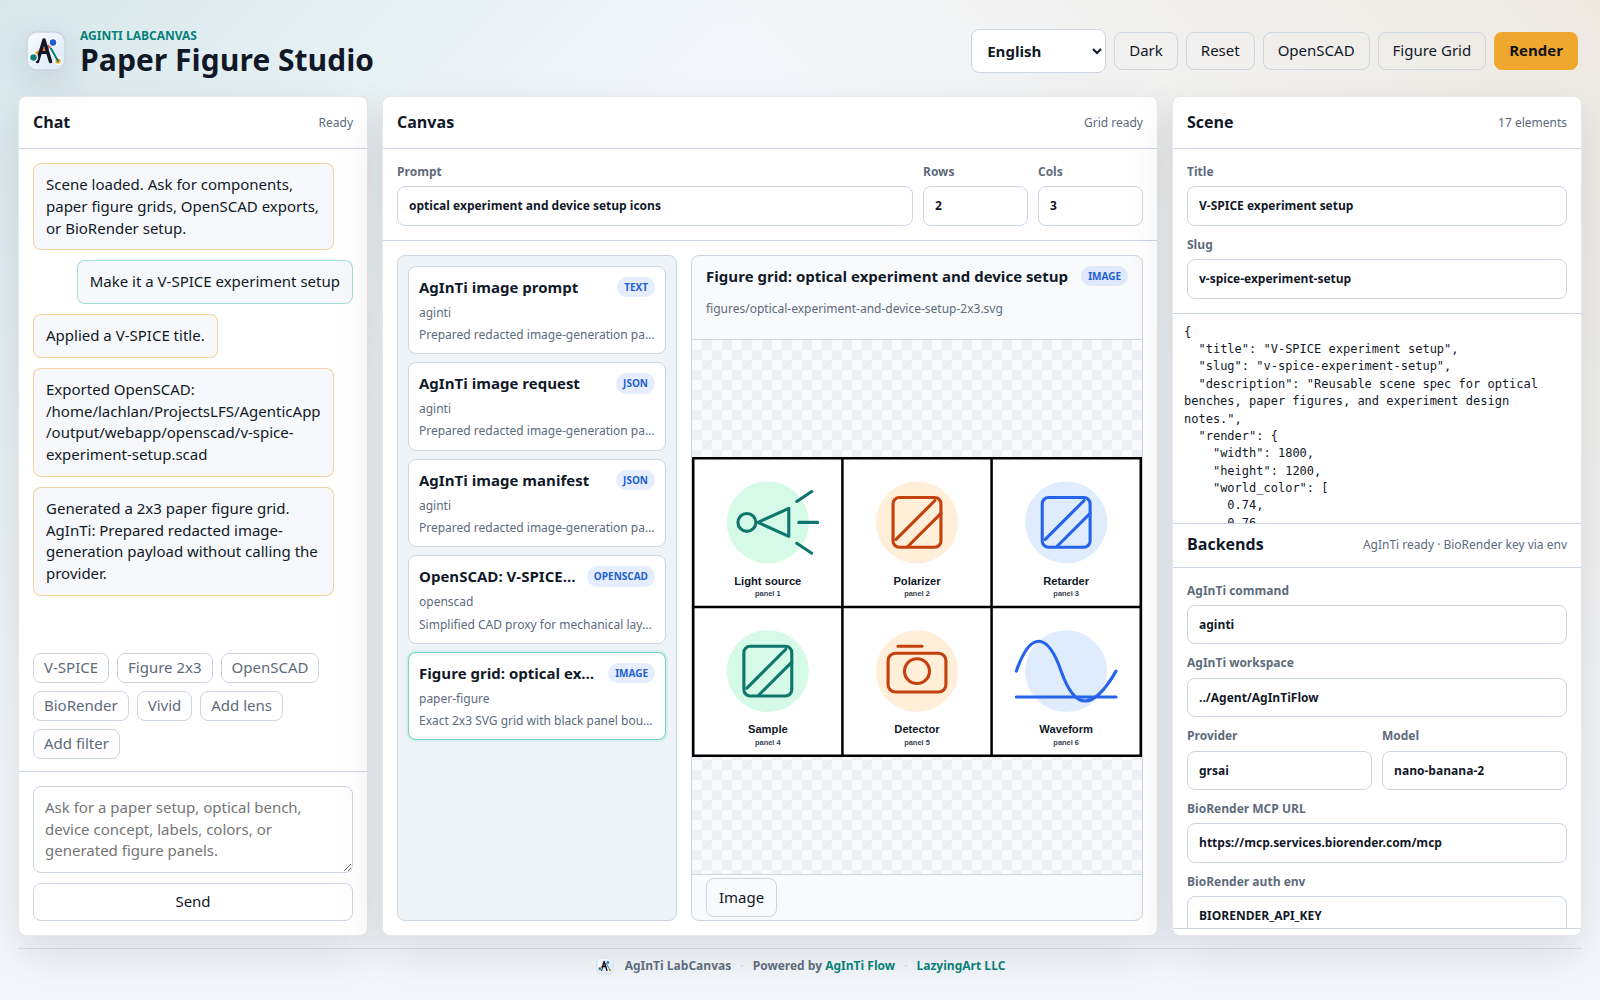
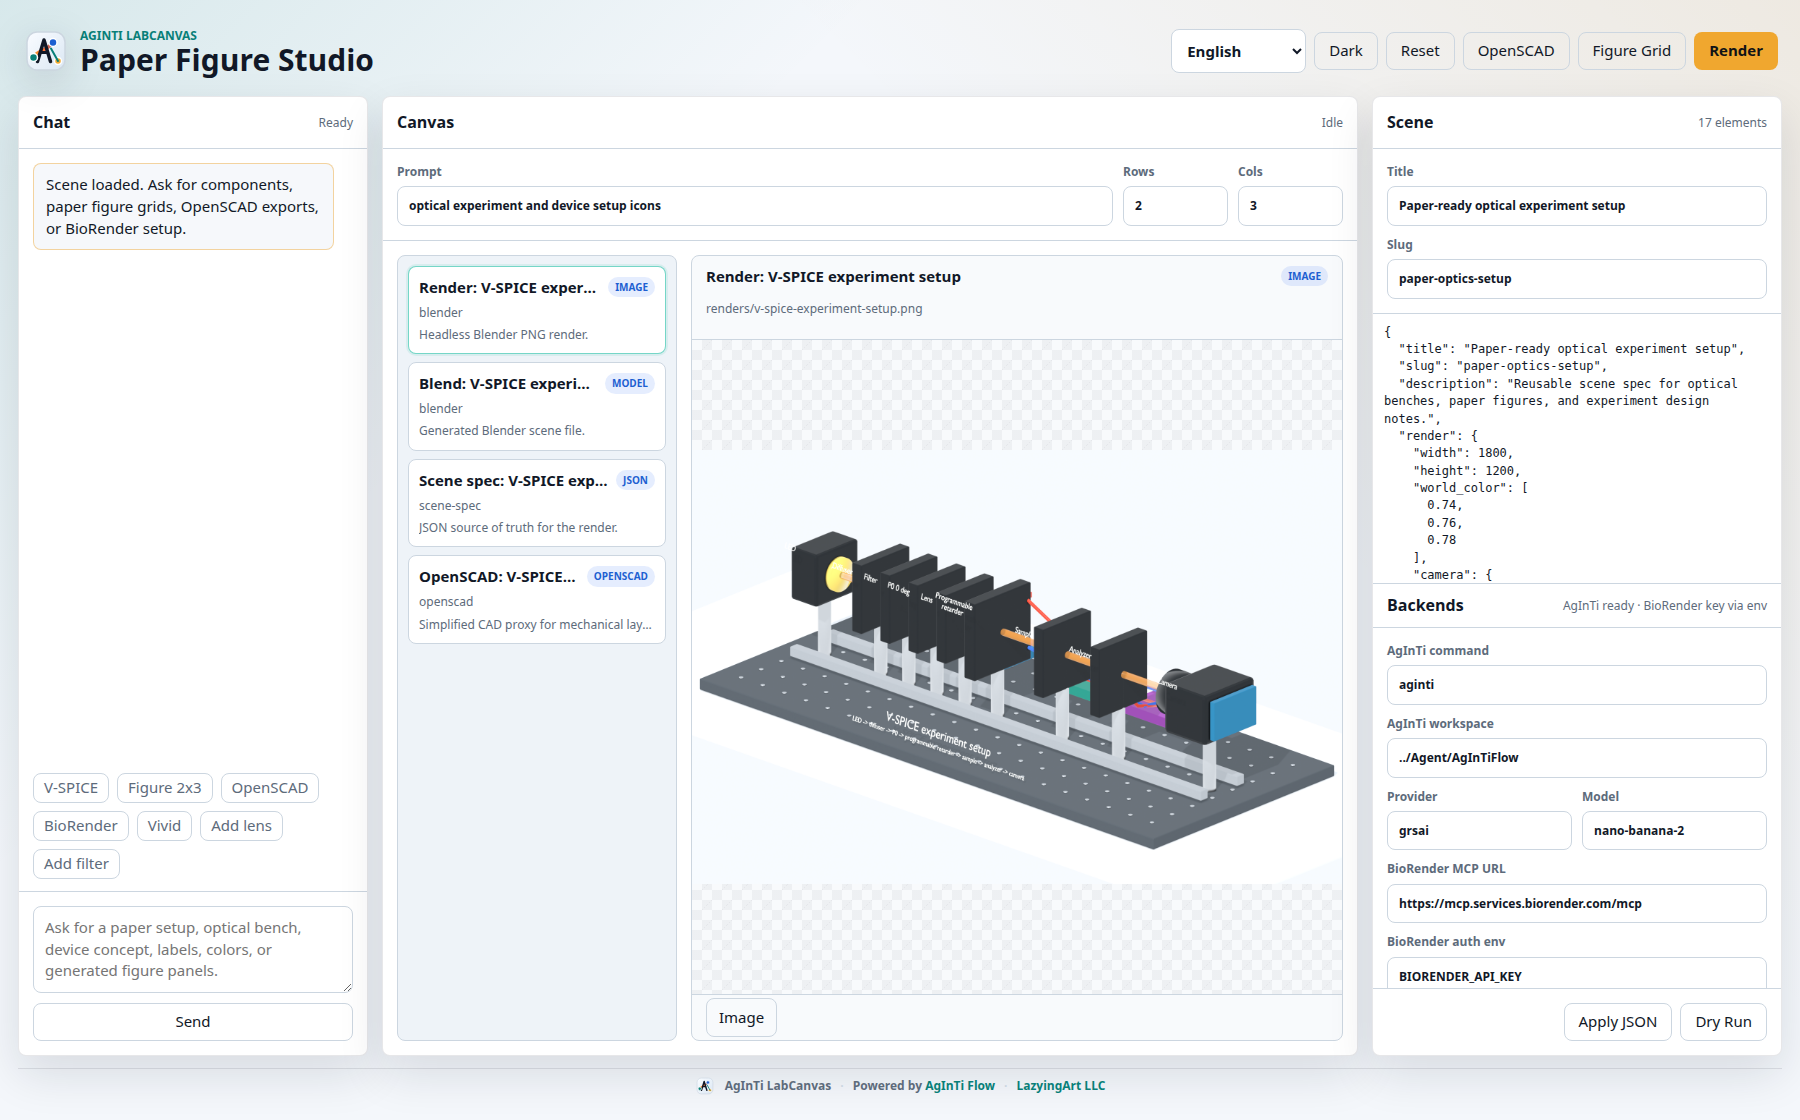
Polish README and support panel

diff --git a/README.md b/README.md
@@ -1,9 +1,11 @@
 [English](README.md) · [العربية](i18n/README.ar.md) · [Español](i18n/README.es.md) · [Français](i18n/README.fr.md) · [日本語](i18n/README.ja.md) · [한국어](i18n/README.ko.md) · [Tiếng Việt](i18n/README.vi.md) · [中文 (简体)](i18n/README.zh-Hans.md) · [中文（繁體）](i18n/README.zh-Hant.md) · [Deutsch](i18n/README.de.md) · [Русский](i18n/README.ru.md)
 
+[![LazyingArt banner](https://github.com/lachlanchen/lachlanchen/raw/main/figs/banner.png)](https://lazying.art)
+
 <p align="center">
   <a href="https://lazying.art"><img alt="Homepage" src="https://img.shields.io/badge/home-lazying.art-111827?style=for-the-badge"></a>
-  <a href="https://www.npmjs.com/package/@lazyingart/labcanvas"><img alt="npm" src="https://img.shields.io/npm/v/@lazyingart/labcanvas?style=for-the-badge&label=npm"></a>
   <a href="https://github.com/lachlanchen/AgInTi-LabCanvas/actions"><img alt="Tests" src="https://img.shields.io/github/actions/workflow/status/lachlanchen/AgInTi-LabCanvas/test.yml?branch=master&style=for-the-badge&label=tests"></a>
+  <img alt="npm package target" src="https://img.shields.io/badge/npm-%40lazyingart%2Flabcanvas-0F766E?style=for-the-badge">
   <img alt="Python" src="https://img.shields.io/badge/python-3.10%2B-3776AB?style=for-the-badge">
   <img alt="MCP" src="https://img.shields.io/badge/MCP-ready-0F766E?style=for-the-badge">
 </p>
@@ -11,105 +13,73 @@
 <h1 align="center">AgInTi LabCanvas</h1>
 
 <p align="center">
-  Agent routing for Blender, BioRender, Unity, Unreal, and future creative tools.
-  AgInTi LabCanvas gives Codex, AgInTiFlow, Claude, local LLMs, and other MCP-aware agents one practical control plane for app automation.
+  <strong>Editable scientific figure and experiment-design studio for agent workflows.</strong><br>
+  Chat, preview, decompose, route, and rebuild paper figures through Blender, OpenSCAD, BioRender, AgInTi, KiCad, Unity, Unreal, and MCP-style tool bridges.
 </p>
+
+| Donate | PayPal | Stripe |
+| --- | --- | --- |
+| [![Donate](https://img.shields.io/badge/Donate-LazyingArt-0EA5E9?style=for-the-badge&logo=kofi&logoColor=white)](https://chat.lazying.art/donate) | [![PayPal](https://img.shields.io/badge/PayPal-RongzhouChen-00457C?style=for-the-badge&logo=paypal&logoColor=white)](https://paypal.me/RongzhouChen) | [![Stripe](https://img.shields.io/badge/Stripe-Donate-635BFF?style=for-the-badge&logo=stripe&logoColor=white)](https://buy.stripe.com/aFadR8gIaflgfQV6T4fw400) |
 
 <p align="center">
-  <a href="#quick-start">Quick Start</a> ·
-  <a href="#paper-figure-studio">Paper Figures</a> ·
-  <a href="#3d-experiment-design">3D Design</a> ·
-  <a href="#targets">Targets</a> ·
-  <a href="#research-backed-design">Research</a> ·
-  <a href="#languages">Languages</a>
+  <img src="docs/assets/aginti-labcanvas-vspice-studio.png" alt="AgInTi LabCanvas showing a V-SPICE chat task with a Blender-rendered experiment setup in the canvas" width="1100">
 </p>
 
-<p align="center">
-  <img src="docs/assets/aginti-labcanvas-vspice-studio.png" alt="AgInTi LabCanvas Paper Figure Studio showing a V-SPICE chat task with OpenSCAD, Blender, and rendered canvas artifacts" width="1100">
-</p>
+## What It Does
 
-<p align="center">
-  Live studio demo: chat asks for a V-SPICE experiment setup, OpenSCAD exports the CAD proxy, and Blender renders the selected right-side canvas artifact.
-</p>
+AgInTi LabCanvas is a small local control plane for agent-assisted scientific visuals and app automation. It keeps generated figures editable: an overview image can start an idea, but final outputs are rebuilt from atomic parts, scene specs, CAD files, manifests, and tool-specific artifacts.
 
-## Why This Exists
+## Current Highlights
 
-Creative tools are gaining agent bridges, but each bridge has a different install path, port, protocol, and safety model. AgInTi LabCanvas keeps those targets in one registry, validates them, emits MCP client config, and dispatches dry-run or live JSON envelopes to the right adapter.
-
-It is intentionally small: Python standard library, explicit config, no hidden editor automation.
+| Area | What is ready | Entry point |
+| --- | --- | --- |
+| Web studio | Chat, bright UI, artifact canvas, backend settings, multilingual UI | `labcanvas web --port 8787 --open` |
+| Paper figures | Exact `NxM` SVG grids, AgInTi image dry-run payloads, editable artifact manifest | [docs/EDITABLE_FIGURE_PIPELINE.md](docs/EDITABLE_FIGURE_PIPELINE.md) |
+| 3D setup renders | JSON scene specs to Blender PNG and `.blend` output | [docs/SCENE_SPEC.md](docs/SCENE_SPEC.md) |
+| CAD devices | OpenSCAD exports and C-mount reflector adapter CAD | [cad/README.md](cad/README.md) |
+| PCB manufacturing | KiCad HYBEC lamp board, DRC/ERC, JLCPCB Gerber ZIP | [pcb/hybec-hbl-273-g4](pcb/hybec-hbl-273-g4) |
+| App routing | Blender, BioRender, Unity, Unreal, and custom target dispatch | [docs/RESEARCH.md](docs/RESEARCH.md) |
 
 ## Quick Start
 
-Install from npm:
+Run from a source checkout:
 
 ```bash
+PYTHONPATH=src python -m agenticapp list
+PYTHONPATH=src python -m agenticapp doctor
+PYTHONPATH=src python -m agenticapp web --port 8787 --open
+PYTHONPATH=src python -m agenticapp studio figure-grid "optical device icons 2x3" --rows 2 --cols 3
+PYTHONPATH=src python -m unittest discover -s tests
+```
+
+The npm package has been renamed in this repository to `@lazyingart/labcanvas`, with `labcanvas` as the primary CLI and `app-auto-action` / `agenticapp` kept as compatibility aliases. The new npm package still needs a fresh authenticated publish; until then, use the source checkout or the previously published package name.
+
+```bash
+# After the renamed npm package is published:
 npm install -g @lazyingart/labcanvas
 labcanvas --version
 labcanvas webapp start --port 19473
 ```
 
-Or run from a source checkout:
+## Studio Workflow
+
+1. Start with chat or a saved JSON scene spec.
+2. Generate overview concepts through AgInTi image payloads or another image backend.
+3. Split the figure into editable atoms: panels, icons, labels, CAD parts, renders, and TeX assembly layers.
+4. Use BioRender for academic assets, OpenSCAD for mechanical layout, Blender for 3D setup renders, and KiCad for PCB artifacts.
+5. Keep every artifact in the canvas manifest so later chat edits can target one part instead of flattening the whole figure.
+
+## Example Commands
 
 ```bash
-PYTHONPATH=src python -m agenticapp list
-PYTHONPATH=src python -m agenticapp doctor
-PYTHONPATH=src python -m agenticapp dispatch blender "Create a red cube at the origin" --dry-run
-PYTHONPATH=src python -m agenticapp mcp-config
-PYTHONPATH=src python -m agenticapp studio status
-PYTHONPATH=src python -m unittest discover -s tests
-```
-
-After installation, the console command is also available as:
-
-```bash
-labcanvas list
-labcanvas dispatch unity "Create a test scene with three labeled cubes" --dry-run
-labcanvas studio figure-grid "optical device icons 2x3" --rows 2 --cols 3
-labcanvas webapp start --port 19473
-```
-
-## Paper Figure Studio
-
-```bash
-labcanvas web --port 8787 --open
-```
-
-The web app now has a bright-by-default theme, chat panel, artifact canvas, scene editor, and backend settings. It can:
-
-- Switch the visible studio UI across the same 11 languages as the localized READMEs.
-- Treat generated overview images as concepts, then decompose them into editable atomic parts.
-- Generate exact `NxM` SVG paper-figure grids with black panel boundaries.
-- Prepare AgInTi image-generation dry-run payloads for scientific icon concepts.
-- Store BioRender MCP settings without storing secrets.
-- Export the current scene to OpenSCAD for mechanical layout planning.
-- Render the scene through Blender and preview PNG, `.blend`, `.scad`, JSON, and text artifacts.
-- Toggle Blender, OpenSCAD, AgInTi image generation, BioRender MCP, and target-registry routing settings.
-- Dry-run any configured target from the studio and save the dispatch envelope as a canvas artifact.
-
-Artifacts are tracked under `output/webapp/artifacts.json` and served in the canvas rail. The intended figure architecture is documented in [docs/EDITABLE_FIGURE_PIPELINE.md](docs/EDITABLE_FIGURE_PIPELINE.md). See also [docs/PAPER_FIGURE_STUDIO.md](docs/PAPER_FIGURE_STUDIO.md), [docs/STUDIO_CLI.md](docs/STUDIO_CLI.md), [docs/WEBAPP.md](docs/WEBAPP.md), and [docs/NPM.md](docs/NPM.md).
-
-## 3D Experiment Design
-
-<p align="center">
-  <img src="examples/renders/paper-optics-setup.png" alt="Paper-ready optical experiment setup render" width="900">
-</p>
-
-AgInTi LabCanvas now includes a systematic Blender workflow for paper setup figures, optical benches, device concepts, and experiment design:
-
-```bash
-labcanvas web --port 8787 --open
 labcanvas scene-template experiment-setup --output my-setup.scene.json
 labcanvas render-scene my-setup.scene.json --dry-run
 labcanvas render-scene my-setup.scene.json --output-dir output/scenes
+labcanvas studio openscad examples/paper-optics-setup.scene.json
+labcanvas studio dispatch blender "Prepare an editable paper figure setup"
 ```
 
-The web app provides chat, JSON scene editing, dry-run planning, and render preview. The source of truth is a JSON scene spec. Blender runs headless and produces a `.png` preview plus a `.blend` scene. Start from [examples/paper-optics-setup.scene.json](examples/paper-optics-setup.scene.json), inspect the generated [example render](examples/renders/paper-optics-setup.png), or read [docs/WEBAPP.md](docs/WEBAPP.md) and [docs/SCENE_SPEC.md](docs/SCENE_SPEC.md).
-
-CAD hardware notes now live in [cad/README.md](cad/README.md), including the OpenHI/Nature STEP import notes and a parametric [C-mount reflector adapter](cad/designs/cmount_reflector_adapter/README.md). JLCPCB/Jialichuang automation research is documented in [pcb/jlcpcb-jialichuang-automation.md](pcb/jlcpcb-jialichuang-automation.md).
-
-## Local Blender Test
-
-For a no-sudo local Blender install and a real headless scene generation test:
+For a local Blender bridge test:
 
 ```bash
 scripts/install_blender_portable.sh
@@ -117,48 +87,21 @@ labcanvas --config configs/blender-local-command.example.json doctor
 labcanvas --config configs/blender-local-command.example.json dispatch blender "Draw a welcoming modern building with a tower"
 ```
 
-The command bridge is [bridges/codex_exec_blender.sh](bridges/codex_exec_blender.sh). It reads the AgInTi LabCanvas JSON envelope from stdin, runs Blender in background mode, stores Blender logs under `output/blender/`, and returns clean JSON with `.blend` and `.png` artifact paths.
-
-## Targets
-
-| Target | Current adapter | Best bridge shape | Notes |
-| --- | --- | --- | --- |
-| Blender | `http_json` | Blender MCP add-on, local HTTP, or command bridge | Good for scene generation, materials, rendering, export. |
-| AgInTi | `local_command` via web settings | `aginti image --json` | Dry-run image payloads for figure concepts; live calls require provider keys. |
-| BioRender | `browser` plus MCP metadata | Official remote MCP connector | Use OAuth/API-supported flows; avoid scraping. |
-| Unity | `http_json` | Unity package, WebSocket proxy, or C# editor bridge | Good for scenes, assets, scripts, tests, play mode. |
-| Unreal | `http_json` | Unreal MCP plugin or Python remote execution proxy | Treat as privileged editor access. |
-
-Copy `configs/targets.example.json` to `labcanvas.targets.json` for local ports, commands, and tokens. This override file is ignored by git.
-
-## Research-Backed Design
-
-The design follows the MCP split between tools, resources, and prompts, then adapts it to live editor bridges. The research brief is in [docs/RESEARCH.md](docs/RESEARCH.md), covering:
-
-- Blender MCP projects with headless and live-GUI modes.
-- Unity MCP packages with scene, asset, script, and play-mode control.
-- Unreal MCP servers using plugins or Python Remote Execution.
-- BioRender's documented MCP connector endpoint.
-- Security tradeoffs for agents with editor write access.
-
 ## Architecture
 
 ```text
-Agent or MCP client
+Agent / MCP client / CLI / web chat
         |
-        | command / dry-run / MCP config
+        | dry-run, render, export, dispatch
         v
-LabCanvas CLI
+AgInTi LabCanvas
         |
-        | target registry
+        | target registry + artifact manifest
         v
-Transport adapter: http_json | local_command | browser | noop
-        |
-        v
-Blender / BioRender / Unity / Unreal bridge
+Blender · OpenSCAD · BioRender · AgInTi · KiCad · Unity · Unreal
 ```
 
-Every dispatch receives the same envelope:
+Every target dispatch receives a reviewable JSON envelope:
 
 ```json
 {
@@ -172,17 +115,14 @@ Every dispatch receives the same envelope:
 }
 ```
 
-## Languages
+Copy `configs/targets.example.json` to `labcanvas.targets.json` for local ports, commands, and tokens. This override file is ignored by git.
 
-Localized READMEs live under `i18n/` and use the same profile-style language switcher as this root README:
-
-[العربية](i18n/README.ar.md) · [Español](i18n/README.es.md) · [Français](i18n/README.fr.md) · [日本語](i18n/README.ja.md) · [한국어](i18n/README.ko.md) · [Tiếng Việt](i18n/README.vi.md) · [中文 (简体)](i18n/README.zh-Hans.md) · [中文（繁體）](i18n/README.zh-Hant.md) · [Deutsch](i18n/README.de.md) · [Русский](i18n/README.ru.md)
-
-## Development
+## Validation
 
 ```bash
-PYTHONPATH=src python -m unittest discover -s tests
+npm test
+npm run pack:dry-run
 PYTHONPATH=src python -m agenticapp doctor
 ```
 
-Keep transport behavior covered by tests before adding live editor features. See [AGENTS.md](AGENTS.md) for contributor guidance and [SECURITY.md](SECURITY.md) for the editor-automation security model.
+Keep transport behavior covered by tests before adding live editor features. Review [SECURITY.md](SECURITY.md) before enabling live dispatch to editor bridges or browser sessions.